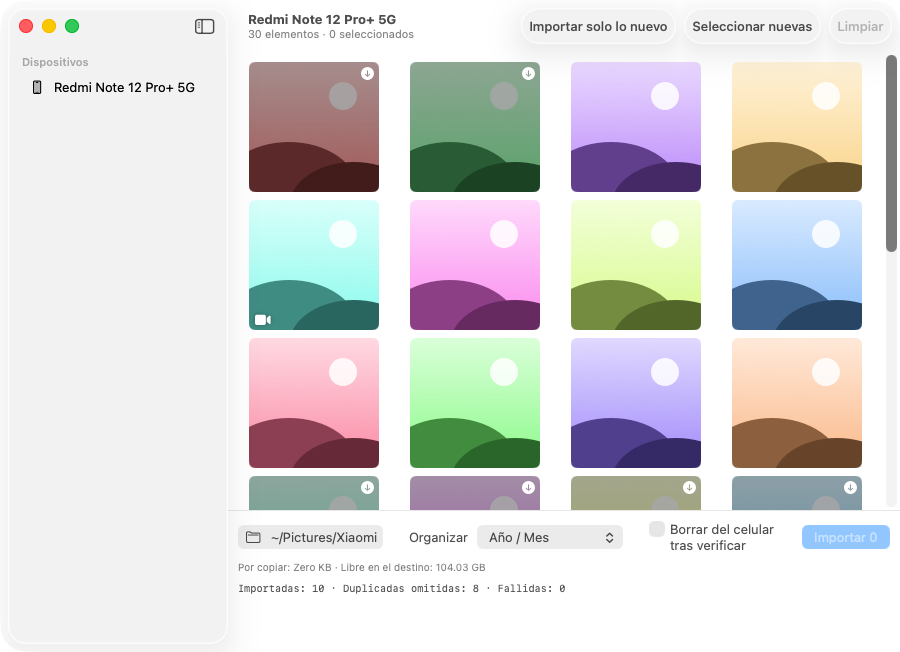
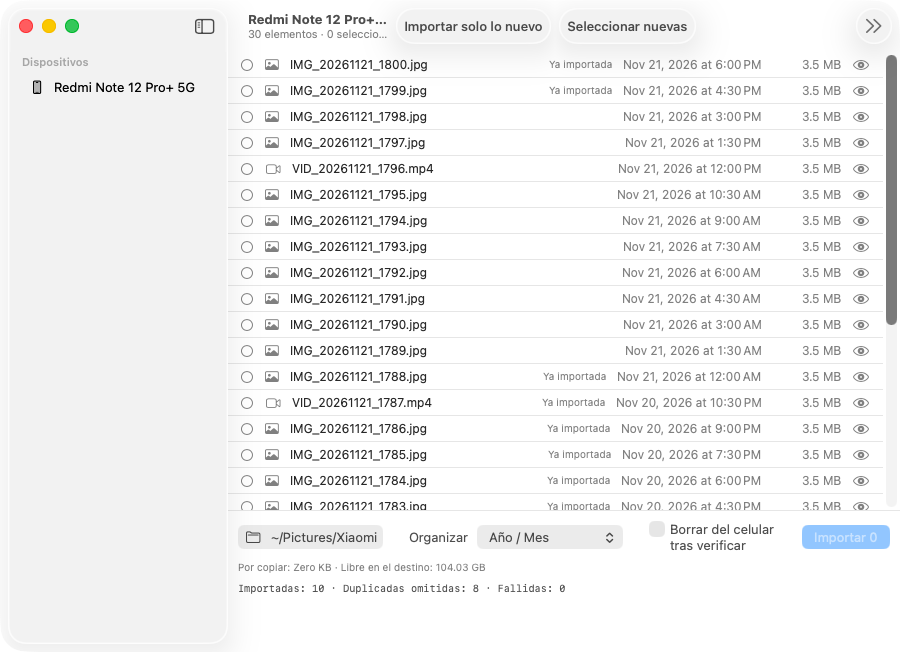
Actualiza el manual, las capturas y el estado para la versión 1.2.0
El manual de usuario describe ahora la vista de lista, el selector de vista, el
aviso de la vista previa, el menú «Seleccionar por lote» y los nuevos mensajes
de solución de problemas. Las capturas de docs/img se reemplazan por las que
generó el flujo de Actions con la versión 1.2.0.

ESTADO.md registra el pre-lanzamiento v1.2.0-prueba y las pruebas pendientes con
el celular real, entre ellas el tiempo de lectura del catálogo con 24.000 fotos.

diff --git a/docs/manual-de-usuario.html b/docs/manual-de-usuario.html
@@ -176,11 +176,13 @@
 <h2 id="importar">4. Importar fotos paso a paso</h2>
 <ol>
   <li><strong>Elige el celular.</strong> Selecciónalo en la barra lateral. La app muestra «Abriendo sesión…» y luego «Leyendo fotos…» con un contador. Con miles de fotos puede tardar unos minutos.</li>
-  <li><strong>Mira la galería.</strong> Verás las miniaturas de las fotos y los videos. Pasa el cursor sobre una miniatura para ver el nombre del archivo, la fecha y si ya fue importada. Haz <strong>doble clic</strong> para ver la vista previa y <strong>Cerrar</strong> (o la tecla <kbd>Esc</kbd>) para volver. En los videos, la app primero descarga el archivo completo a una carpeta temporal y luego lo reproduce con controles de pausa y avance; el archivo temporal se borra al cerrar la vista previa.</li>
+  <li><strong>Mira la galería.</strong> Por defecto verás una <strong>lista</strong> sin miniaturas, con el nombre, la fecha, el tamaño y si cada foto o video ya fue importado. Es la vista más rápida con bibliotecas muy grandes, porque no le pide nada al celular. Con el selector <strong>Lista / Miniaturas</strong> de la barra superior puedes cambiar a la cuadrícula de miniaturas; con miles de fotos esa vista es mucho más lenta.
+    <br>Para ver una foto o un video, pulsa el icono del ojo de la fila o haz <strong>doble clic</strong>. En la vista de lista la app te avisa de que hay que descargar el archivo completo del celular y que puede demorar; la descarga empieza solo cuando pulsas <strong>Cargar vista previa</strong>. Mientras baja se muestra la miniatura, si existe. Pulsa <strong>Cerrar</strong> (o la tecla <kbd>Esc</kbd>) para volver. En los videos, la app descarga el archivo completo a una carpeta temporal y luego lo reproduce con controles de pausa y avance; el archivo temporal se borra al cerrar la vista previa. En la vista de miniaturas la vista previa carga de inmediato, sin aviso.</li>
   <li><strong>Selecciona qué importar.</strong>
     <ul>
-      <li>Un clic en una miniatura la selecciona (aparece un borde y una marca de verificación); otro clic la deselecciona. Puedes marcar tantas como quieras, una por una.</li>
-      <li>Las fotos ya importadas se ven atenuadas y con una flecha de descarga.</li>
+      <li>Un clic en una fila de la lista, o en una miniatura, la selecciona (aparece una marca de verificación); otro clic la deselecciona. Puedes marcar tantas como quieras, una por una.</li>
+      <li>Las fotos ya importadas muestran «Ya importada» en la lista, o se ven atenuadas y con una flecha de descarga en las miniaturas.</li>
+      <li><strong>Seleccionar por lote</strong> (barra superior): marca de una vez todas las fotos de un periodo. Ofrece Todo, Último mes, Últimos 3 meses, Último semestre, Último año, un botón por cada año que tenga fotos y «Rango de fechas…», donde eliges el día inicial y el final, ambos incluidos. El interruptor <strong>Omitir las ya importadas</strong> viene activado, así cada lote solo toma lo pendiente. Cada elección reemplaza la selección anterior. Es la forma recomendable de pasar una biblioteca enorme por tandas: elige un año, pulsa Importar y repite con el siguiente.</li>
       <li><strong>Seleccionar nuevas</strong>: marca de una sola vez todo lo que aún no has importado.</li>
       <li><strong>Limpiar</strong>: quita toda la selección.</li>
       <li><strong>Importar solo lo nuevo</strong> (barra superior): selecciona lo que aún no has importado y lo importa de una vez, sin más pasos. Es el atajo para el uso habitual.</li>
@@ -194,11 +196,12 @@
 </ol>
 
 <figure>
-  <img src="img/galeria.png" alt="Galería de Conector Xiaomi con diez fotos seleccionadas y otras ya importadas atenuadas">
+  <img src="img/galeria.png" alt="Lista de Conector Xiaomi con diez elementos seleccionados y otros marcados como ya importados">
   <figcaption>
-    Galería con diez fotos seleccionadas (borde azul y marca de verificación). Las fotos con una flecha de descarga y
-    atenuadas ya se importaron antes. En la barra inferior están la carpeta de destino, el modo de organización, el
-    interruptor de borrado y el botón Importar.
+    Vista de lista con diez elementos seleccionados (fila azul y marca de verificación). Los que dicen «Ya importada»
+    se copiaron antes. En la barra inferior están la carpeta de destino, el modo de organización, el interruptor de
+    borrado y el botón Importar. Si la ventana es estrecha, los botones de la barra superior (Seleccionar por lote y el
+    selector de vista) quedan ocultos bajo el icono «>>»: ensancha la ventana para verlos.
   </figcaption>
 </figure>
 
@@ -271,7 +274,11 @@
     </tr>
     <tr>
       <td>Las miniaturas tardan o no cargan</td>
-      <td>Con miles de fotos o con fotos de 200 MP la carga es lenta. Espera a que termine el contador de «Leyendo fotos…».</td>
+      <td>Con miles de fotos o con fotos de 200 MP la carga es lenta. Cambia a la vista de <strong>Lista</strong>, que no descarga miniaturas, y espera a que termine el contador de «Leyendo fotos…».</td>
+    </tr>
+    <tr>
+      <td>La vista previa de una foto no carga o dice «No se pudo cargar»</td>
+      <td>Comprueba que el celular siga conectado y desbloqueado, y vuelve a intentarlo. Con una biblioteca muy grande el celular responde despacio y la descarga puede demorar. Si no necesitas verla, puedes importarla sin vista previa.</td>
     </tr>
     <tr>
       <td>El video tarda en empezar a reproducirse</td>
@@ -305,7 +312,8 @@
   <li>Esta versión se compiló, pero todavía no se ha probado extensamente con un celular real. Haz una prueba con pocas fotos antes de importar toda la galería.</li>
   <li>Para ver un video, la app lo descarga entero antes de reproducirlo.</li>
   <li>Cancelar espera a que termine el archivo en curso; no interrumpe una copia a medias.</li>
-  <li>La vista previa completa de fotos de 200 MP puede ser lenta.</li>
+  <li>La vista previa completa de fotos de 200 MP puede ser lenta, y con bibliotecas muy grandes el celular responde despacio.</li>
+  <li>La vista de lista y la selección por lotes se compilaron pero todavía no se han probado con un celular real ni con miles de fotos.</li>
   <li>El borrado en el celular depende de que el modelo lo permita por PTP.</li>
   <li>La app no está firmada con un certificado de Apple, por lo que macOS pide aprobarla manualmente la primera vez.</li>
 </ul>

diff --git a/ESTADO.md b/ESTADO.md
@@ -1,6 +1,6 @@
 # Estado del proyecto (para continuar en el Mac)
 
-Última actualización: 2026-11-22
+Última actualización: 2026-11-22 (versión 1.2.0-prueba)
 
 ## Objetivo
 App nativa de macOS para conectar un Xiaomi por USB, leer las fotos del celular e importarlas al Mac.
@@ -42,11 +42,16 @@ App nativa de macOS para conectar un Xiaomi por USB, leer las fotos del celular 
   temporal, se reduce a 2400 px, y la ventana muestra la miniatura mientras baja el archivo completo, con un mensaje claro si
   falla. Causas probables aún sin confirmar: lectura perezosa de `NSImage(contentsOf:)` o descarga en cola detrás de las miniaturas.
 - Manual de usuario en `docs/manual-de-usuario.html`, con imágenes en `docs/img/`, actualizado con las funciones nuevas.
-- Pre-lanzamientos en GitHub Releases con el `.dmg` adjunto: `v1.0.0-prueba` (sin las funciones nuevas) y `v1.1.0-prueba`
-  (la más reciente, la que debe usarse). El Pull Request #1 ya está fusionado en `main` (la rama `ccr-a8701da9-ja6pdv`
-  se conservó, pero el trabajo continúa en `main`).
+- Pre-lanzamientos en GitHub Releases con el `.dmg` adjunto: `v1.0.0-prueba` (sin las funciones nuevas), `v1.1.0-prueba` y
+  `v1.2.0-prueba` (la más reciente, la que debe usarse; incluye la lista, la selección por lotes y la corrección de la vista
+  previa, commit `dd970cd`). El Pull Request #1 ya está fusionado en `main` (la rama `ccr-a8701da9-ja6pdv` se conservó, pero
+  el trabajo continúa en `main`).
+- El manual y las capturas de `docs/img/` se regeneraron con la versión 1.2.0. Con la ventana al ancho mínimo (900 px) los
+  botones de la barra superior se pliegan bajo «>>»; el manual lo explica. Posible mejora: subir el ancho mínimo en `App.swift`.
 
 ## Pendiente / riesgos
+0. Probar con el celular real la **vista de lista**, la **selección por lotes** (por año y por rango) y la **vista previa**
+   corregida. Con unas 24.000 fotos, comprobar cuánto tarda «Leyendo fotos…»: cada foto refresca la interfaz y puede ser lento.
 1. **Nunca se probó con el celular real.** Es lo principal. Compilar no garantiza que el delegado de ImageCaptureCore
    funcione bien. Por eso el lanzamiento está marcado como pre-lanzamiento.
 2. Comprobar que el celular aparece en la barra lateral y carga miniaturas.
